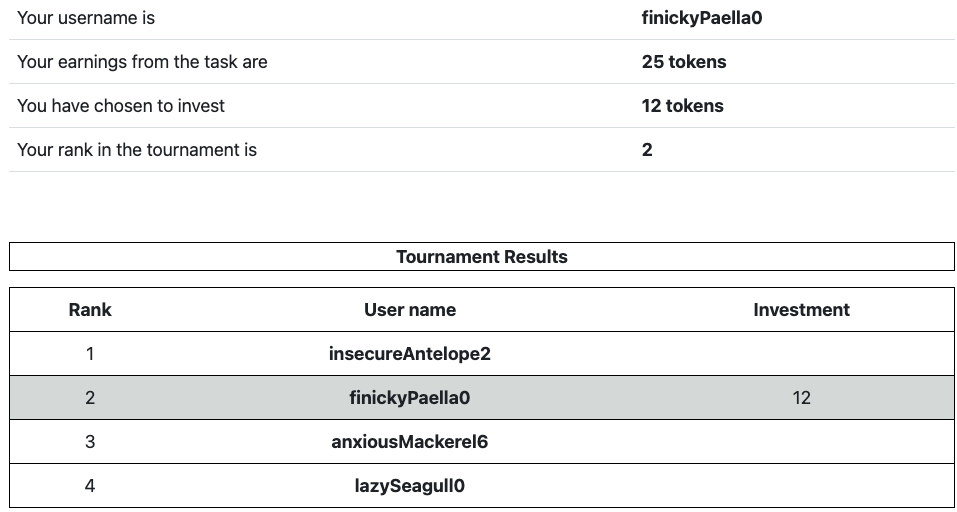
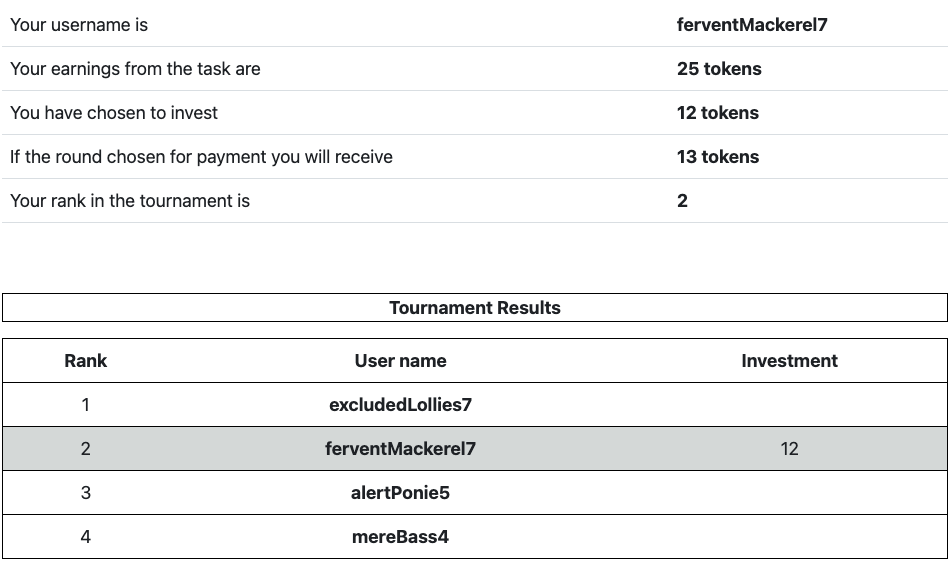
fixing the ordinal treatment

diff --git a/CC_OrdinalVisibility/Instructions.html b/CC_OrdinalVisibility/Instructions.html
@@ -12,10 +12,10 @@ Welcome to the <b>ESSEXLab!</b> You have earned <b>£5 for showing up on time</b
 <br>
 
 <ul>
-	<li> You will be playing 10 rounds following the rules explained below. </li>
+	<li> You will be playing 15 rounds following the rules explained below. </li>
 	<li>	One round is chosen for payment at random. </li>
 	<li>	You can earn up to 30 pounds depending on the round chosen for payment. </li>
-	<li>	Before experiment begins you will choose a user name that will be your virtual identity throughout the experiment. </li>
+	<li>	Before the experiment begins you will choose a user name that will be your virtual identity throughout the experiment. </li>
 </ul>
 
 
@@ -24,7 +24,7 @@ Welcome to the <b>ESSEXLab!</b> You have earned <b>£5 for showing up on time</b
 <h3> Structure of a Round </h3>
 
 <ul>
-	<li>	You will be <b>randomly assigned to a group of four participants</b>. </li>
+	<li>	You will be <b>randomly assigned to a group of four participants</b> each round. </li>
 	<li>	You and the other group members will </b>compete in a tournament</b>. </li>
 	<li>	Each round of the experiment consists of three stages: 	</li>
 	<ol>
@@ -42,46 +42,37 @@ Welcome to the <b>ESSEXLab!</b> You have earned <b>£5 for showing up on time</b
 	</li>	You can adjust each slider to any position between 0 and 100 by pressing the slider with your mouse and dragging it to the desired position. </li>
 	<li>	You have <b>one minute</b> to adjust <b>as many sliders as possible</b> to the target position of 50. </li>
 	<li>	You will receive <b>one token for each correctly adjusted slider</b>. </li>
-	<li>	At the end of the experiment, tokens will be converted to pounds at the following exchange rate: 
-	<br>
-
-<div class="d-flex justify-content-center align-items-center">
-<b> 1 token = 50p. </b>
-</div>
-	</li>
 </ul>
 
 
 <h3> Investment Stage </h3>
 
 <ul>
-	<li>	You decide how many of your tokens to keep and how many of your tokens to <b>invest in training</b>. </li>
-	<li>	Training improves your performance in the tournament. </li>
-	<li>	Each token invested in training increases your tournament score by an additional point. </li>
-	<li>	For example, if you invest <b>10 tokens in training</b>, then your tournament <b>score is 10</b>. </li>
+	<li>	You decide how many of your previously earned tokens to keep and how many of your tokens to <b>invest in training</b>. </li>
+	<li>	Training determines your performance in the tournament. </li>
+	<li>	Each token invested in training increases your tournament score by one point. </li>
+	<li>	For example, if you <b>received 21 tokens from the task</b> and <b>invested 10 tokens</b> in training, then your tournament <b>score is 10</b> and you will be <b>paid 11 tokens </b> if the round is chosen for payment. </li>
 </ul>
 
 <h3> Tournament Outcome Stage </h3>
 
 <ul>
-	<li>	Once everyone has concluded with their investment you will see <b>the rank</b> you earned in the tournament along with <b>usernames and ranks for other group members</b> as on the screenshot below.
+	<li>	Once everyone has concluded with their investment you will see <b>the rank</b> you achieved in the tournament along with <b>usernames and ranks for other group members</b> as on the screenshot below.
 <br>
 <img class="pic-center" src="{{ static 'pictures/OrdinalVisibility.png' }}"/>
 	</li>
-
-<li>	The outcome stage contains <b> your rank, username, and investment </b>.  </li>
 
 </ul>
 <h3> Timeline of an Experimental Round </h3>
 
 <ol>
-	<li>	You are randomly assigned to <b> a group of four participants </b> who will compete with each other in a tournament. </li>
+	<li>	At the beginning of each round, you are randomly assigned to <b> a group of four participants </b> who will compete with each other in a tournament. </li>
 	<li>	In the Effort Stage, you have <b> one minute to adjust as many sliders as possible </b> to the target position of 50, and you earn <b> one token for each correctly adjusted slider </b>. </li>
-	<li>	In the Investment Stage, you decide how many tokens to keep and how many tokens to invest in training.  <b> Training improves your performance in the tournament </b>.  Each token invested increases your tournament score by an additional point. </li>
+	<li>	In the Investment Stage, you decide how many of your earned tokens to keep and how many tokens to invest in training.  <b> Training determines your performance in the tournament </b>.  Each token invested increases your tournament score by one point. </li>
 	<li>	In the Tournament Outcome Stage, your tournament score will be <b>compared</b> to the <b> scores of other group members </b>.  Your ranking will be shown, from 1 (highest score) to 4 (lowest score). </li>
 </ol>
 
-Then you proceed to the next round. At the end of the experiment, one round is randomly selected for payment. You receive 50p for each token you have at the end of that round.
+Then you proceed to the next round. At the end of the experiment, one round is randomly selected for payment. <b>You receive 50p for each token you have at the end of that round</b>.
 
 <br>
 <br>

diff --git a/CC_OrdinalVisibility/TournamentResults.html b/CC_OrdinalVisibility/TournamentResults.html
@@ -25,6 +25,11 @@
         <td> You have chosen to invest</td>
         <td> <b> {{invest}} tokens </b></td>
     </tr>
+    <tr>
+        <td> If the round chosen for payment you will receive </td>
+        <td> <b> {{pay}} tokens </b></td>
+    </tr>
+
 
     <tr>
         <td> Your rank in the tournament is</td>

diff --git a/CC_OrdinalVisibility/__init__.py b/CC_OrdinalVisibility/__init__.py
@@ -457,11 +457,13 @@ class TournamentResults(Page):
         tournament = [0 for x in range(0,4)]
         for i in range(0,4):
             tournament[i] = [ranks[i], temp[i], user_names[i]]
+        payment = player.num_correct - player.invest
         return dict(
             user_name = player.user_name,
             earnings = player.num_correct,
             invest = player.invest,
             rank = player.rank,
+            pay = payment,
             tournament = tournament,
             round_number = player.round_number,
             num_rounds = Constants.num_rounds
@@ -476,7 +478,7 @@ class TournamentResults(Page):
 
 
 page_sequence = [
-            Welcome,
+#            Welcome,
             Instructions,
             GenerateUsername,
             RealEffortTask,

diff --git a/settings.py b/settings.py
@@ -126,7 +126,7 @@ SESSION_CONFIGS = [
 
 #------------------------------------------------------------------------------------
 # SWITCHING THE DEBUG MODE ON AND OFF
-DEBUG = False
+DEBUG = True
 #------------------------------------------------------------------------------------
 
 
